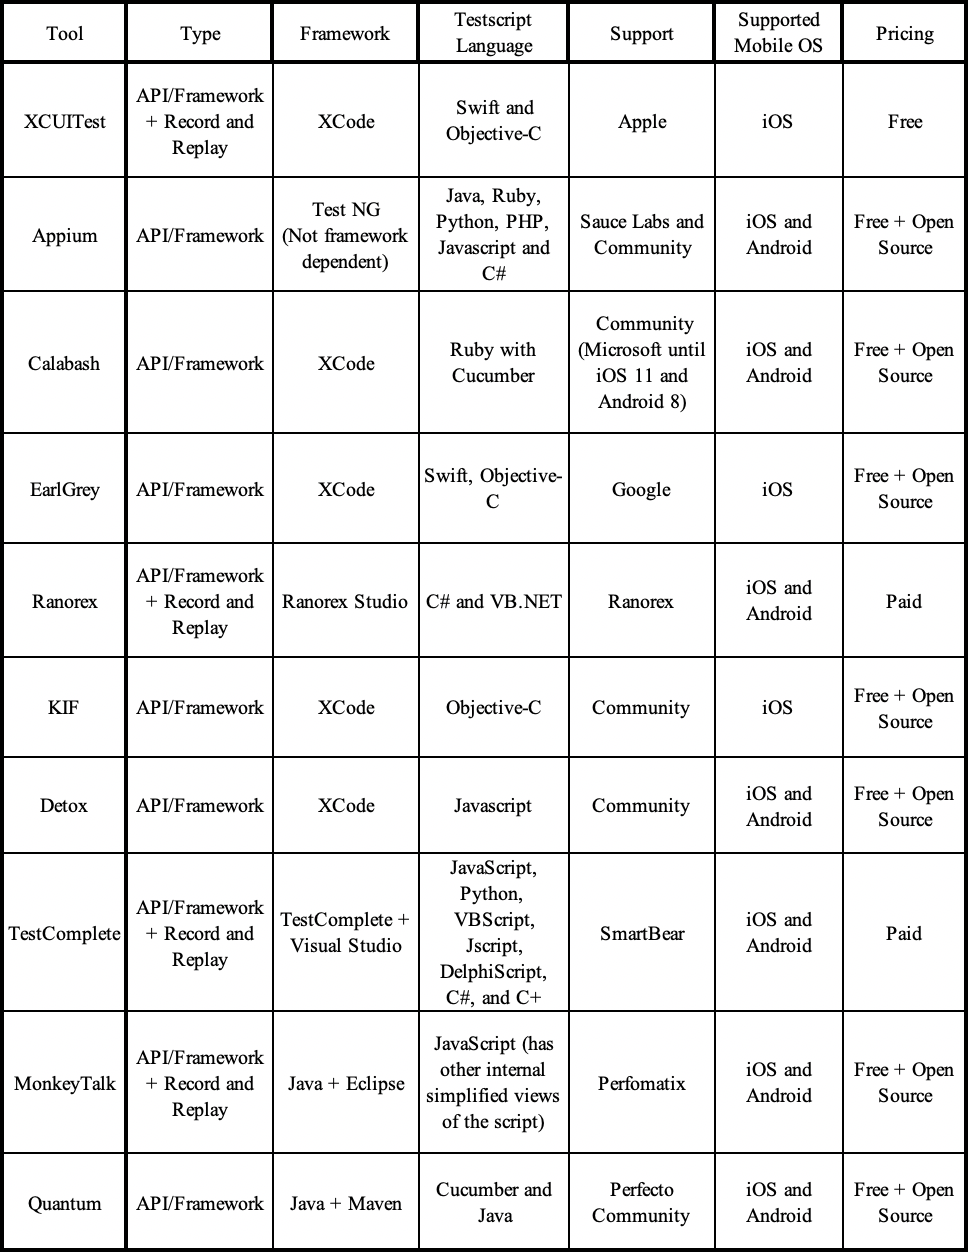
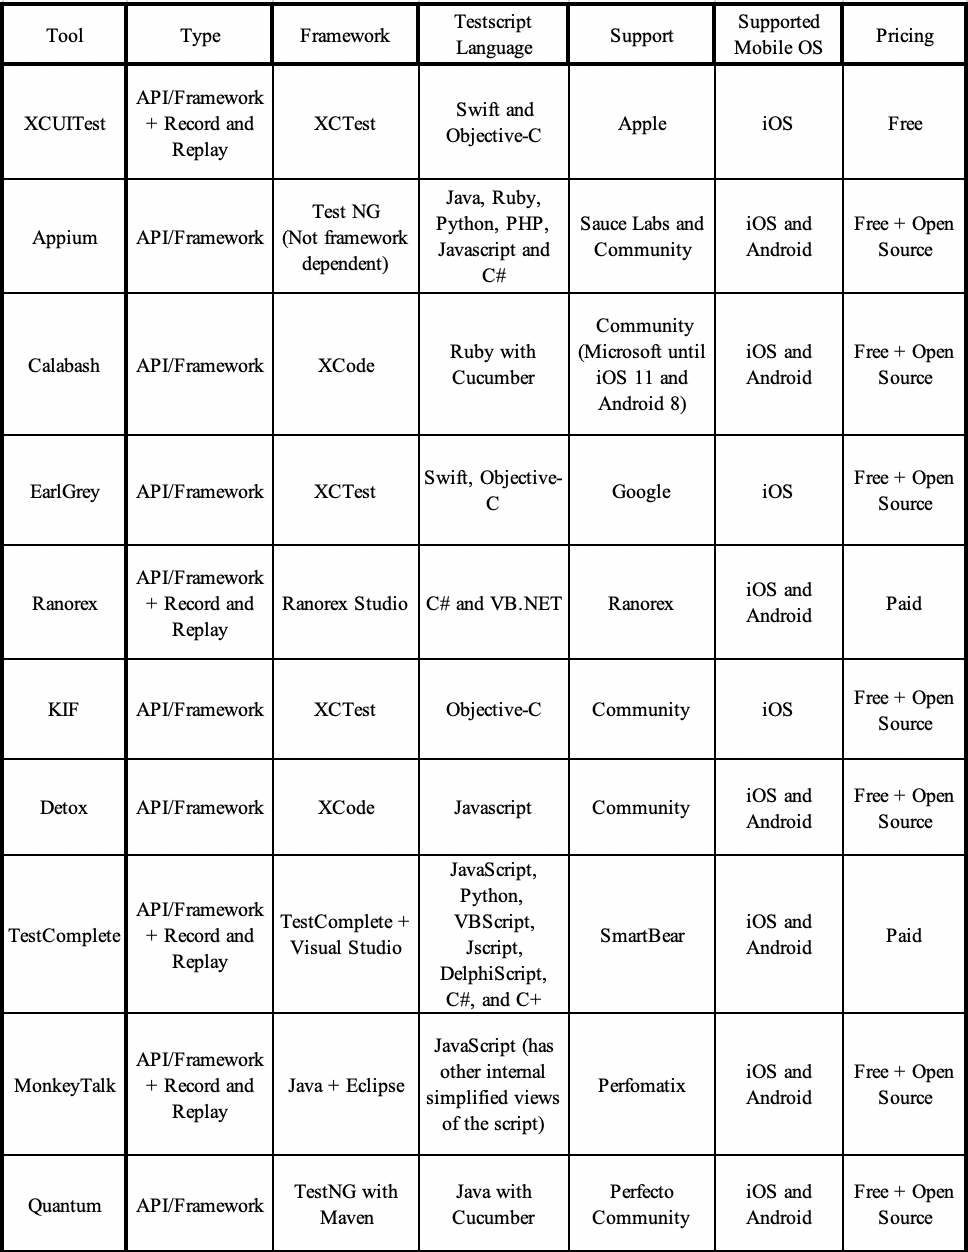
added references

diff --git a/content/chapter-related-work.tex b/content/chapter-related-work.tex
@@ -3,55 +3,53 @@
 
 \section{State of the Art}
 
-As for mobile systems, there are only two main platforms: Android and iOS. On the Android side, because of it being an open source project, a vast number of smartphone manufacturing companies provide this base operating system and some have even implemented their own wrapper around Android. As a result, the device suite for Android has surpassed 7000+ devices [4]. On the other hand, the iOS platform is much more restrictive and only Apple is allowed to manufacture devices with iOS, which results in the testing advantage of having a smaller device suite [3]. However, due to the secrecy and restrictions of the iOS system (as opposed to Android), there are fewer tools available that may perform automated tests, making test automation fairly more uncommon on this platform. Consequently, test assessment might be performed through manual testing instead of automated even if automating is the right approach.
+As for mobile systems, there are only two main platforms: Android and iOS. On the Android side, because of it being an open source project, a vast number of smartphone manufacturing companies provide this base operating system and some have even implemented their own wrapper around it. As a result, the device suite for Android has surpassed 7000+ devices \cite{Android Devices}. On the other hand, the iOS platform is much more restrictive and only Apple is allowed to manufacture devices with iOS, which results in the testing advantage of having a smaller device suite \cite{Apple Devices}. However, due to the secrecy and restrictions of the iOS system (as opposed to Android), there are fewer tools available that may perform automated tests, making test automation fairly more uncommon on this platform. Consequently, quality control might be performed through manual testing instead of automated testing, even if automating is the right approach.
 
-There are currently a few tools that allow the development of automated user interface tests for iOS. The feasibility of developing tests through one or the other varies depending on the compatibility of the tool with the characteristics of the project. This refers to features such as: the programming language with which the team to perform the automation is familiar with, which testing framework are you capable of using, if the application is developed hybrid or native, the testing load and speed requirements, among many others.
+There are currently a few tools that allow the development of automated user interface tests for iOS. The feasibility of developing tests through one or the other varies depending on the compatibility of the tool with the characteristics of the project. This refers to factors such as: project budget, programming languages with which the team to perform the automation is familiar with, whether the application is hybrid or native, testing load and speed requirements, among many others.
 
-The two types of tools used to create automated tests are: Automation APIs/frameworks and record and replay tools [9]. It is also worth noting that there are several test support tools like: bug and error reporting/monitoring tools, device streaming tools and automated test input generation tools. For the purpose of this project, a focus on both types of test automation tools will be made: APIs/frameworks and record and replay.
+The two types of tools used to create user interface automated tests are: automation APIs/frameworks and record and replay tools \cite{Linares-Vasquez2017ContinuousTesting}. Both types of tools are within the scope of this project. It is also worth noting that there are several other test support tools like: bug and error reporting/monitoring tools, device streaming tools and automated test input generation tools. It is important understand, at a high level, how these two tool types work and how they are used to create automated tests.
 
-First, it is important to provide an overview on how these two tool types work and how they are used to create automated tests. Under the hood, they work in a very similar manner and even, in some cases, test automation systems provide both tools. In order to create automated tests for mobile applications there is a crucial feature the tool must provide. The tool needs to be capable of interacting with the smartphones GUI elements as a real user would in order to replicate testing scenarios. This includes GUI interactions such as: swiping, typing, pinch and zoom, tapping among others and even combinations of these like swipe and hold or double tap. Even though both tool types must provide this interaction with the GUI, the way the actual automated tests are created is where they differ. Automation APIs/frameworks require a test script which contains all of the user interactions that should be performed when the test is to be executed. On the other hand, record and replay tools only require for the test to be manually executed and the tool itself will record all the interactions that where performed generating a test script.
+They both attempt attempt to provide an interface for the user to create an automated test. Which is why, in some cases, test automation frameworks provide both types. Even though the goal is the same, the way the actual automated test is created is where they differ. On the one hand, automation APIs/frameworks require a manually written test script which contains all of the code that makes up the automated test. On the other hand, record and replay tools only require for the test to be manually executed and the tool itself will record all the interactions that where performed, automatically generating the automated test.
 
+Once the automated test is executed, it must be capable of interacting with the smartphones GUI elements as a real user would, replicating the test case scenarios. This includes performing GUI interactions such as: swiping, tapping, dragging, pinching, among others.
 
 \section{Test Automation Tools}
 
-Regarding the available tools, there are several different tools that can be used to develop your automated tests, ranging from paid license all-in-one tools like Ranorex [7] to open source client server tools like Appium [8], which acts as a library that you can adapt to your test automation framework. 
+Regarding the available tools, there are several different tools that can be used to develop your automated tests, ranging from paid license all-in-one tools like Ranorex \cite{Ranorex} to open source client-server tools like Appium \cite{Appium}. 
 
 Getting to know all of the available tools, how they work and how they are used can become a very time-consuming task. Besides, while doing research about test automation tools for iOS, you might end up with a small list of the available tools and a brief understanding of them. The actual documentation you can find on automation tools for iOS is very limited and as a result you can easily have a hard time trying to choose the appropriate tool for your project. For this reason, this project pursues to reduce the conceptual gap present when trying to learn about the available user interface test automation tools for iOS.
 
 Here, a list and a brief description for most of the currently available tools that may perform test automation of UI over the iOS platform is shown. This will provide a high level view of what is available and may help you discard some options right away.
 
-\subsection {XCTest UI}
-Xcode comes with the testing framework XCTest. This testing framework will not only allow you to code your unit tests, but you may also record and write UI tests. This testing tool has seen a mayor upgrades since it was released a few years ago and has now become a really solid option.
+\subsection {XCUITest}
+Xcode comes with the testing framework XCTest. This testing framework will not only allow you to code your unit tests, but you may also record and write UI tests. This testing tool has seen a mayor upgrades since it was released a few years ago and has now become a really solid option. \cite{XCUITest}
 
 \subsection {Appium}
-Appium has now become one of the most popular mobile test automation tools out there. This open source project is characterized by its client server architecture which supports a wide range of programming languages and testing frameworks to work on.
+Appium has now become one of the most popular mobile test automation tools out there. This open source project is characterized by its client server architecture which supports a wide range of programming languages and testing frameworks to work on. \cite{Appium}
 
 \subsection {Calabash}
-Although Xamarin (Microsoft) discontinued their development for this test automation framework up until iOS 11 and Android 8, it has still been maintained by its community. It works with Cucumber in order to follow the BDD practices plus it is a free and open source project. This means it can become fairly simple to write automated tests without much coding experience.
+Although Xamarin (Microsoft) discontinued their development for this test automation framework up until iOS 11 and Android 8, it has still been maintained by its community. It works with Cucumber in order to follow the BDD practices plus it is a free and open source project. This means it can become fairly simple to write automated tests without much coding experience. \cite{Calabash}
 
-\subsection {Earl Grey (2.0)}
-This open source project by Google provides a testing framework over the existing XCUITest in order to provide certain advantages such as synchronization and white box testing.
+\subsection {EarlGrey (2.0)}
+This open source project by Google provides a testing framework works along with the existing XCUITest in order to provide certain advantages such as synchronization and white box testing. \cite{EarlGrey}
 	
 \subsection {Ranorex}
-This paid “all in one” solution seems to be one of the most popular of its kind. It allows the recording and writing of automated tests for many platforms and it is simple to use, for which its users do not need to be skilled with programming to use it.
+This paid “all in one” solution seems to be one of the most popular of its kind. It allows the recording and writing of automated tests for many platforms and it is simple to use, for which its users do not need to be skilled with programming to use it. \cite{Ranorex}
 
 \subsection {KIF}
-KIF, standing for “Keep It Functional” is a test automation framework that works at the XCTest level and runs with your unit tests. Tests are written in Objective-C and it is characterized for being simple and easy to use.
+KIF, standing for “Keep It Functional” is a test automation framework that works at the XCTest level and runs with your unit tests. Tests are written in Objective-C and rely on the accessibility attributes. \cite{KIF}
 
 \subsection {Detox}
-Detox is a grey-box end to end testing framework for mobile devices (iOS and Android) which provides fast tests with improved reliability regarding flakiness. It is designed to support both React Native and pure native ones and it may perform testing over a real device or a simulator.
-
-\subsection {Frank}
-This BDD automated acceptance testing framework works with cucumber and provides features such as recording your tests and running on both simulator and real devices.
+Detox is a grey-box end to end testing framework for mobile devices (iOS and Android) which provides fast tests with improved reliability regarding flakiness. It is designed to support both React Native and pure native ones and it may perform testing over a real device or a simulator. \cite{Detox}
 
 \subsection {TestComplete}
-This paid all in one solution provides everything you may need in order to build and run your tests ranging from the testing framework to the physical/virtual devices. You can either write your own tests on any of the 7 available languages or use the built-in record and replay tool.
+This paid all in one solution provides everything you may need in order to build and run your tests ranging from the testing framework to the physical/virtual devices. You can either write your own tests on any of the 7 available languages or use the built-in record and replay tool. \cite{TestComplete}
 
 \subsection {MonkeyTalk}
-MonkeyTalk is a record and replay open source mobile app automation tool. It is very simple to setup and use, plus it supports both android and iOS.
+MonkeyTalk is a record and replay open source mobile app automation tool. It designed to be simple to setup and use plus it supports both android and iOS. \cite{MonkeyTalk}
 
 \subsection {Quantum}
-The Quantum framework allows you to build BDD automated tests using cucumber. It supports both iOS and Android. Tests are written in Java.
+The Quantum framework allows you to build BDD automated tests using cucumber. It supports both iOS and Android. Tests are written in Java. \cite{Quantum}
 
 \section{Classification}
 After all this research, it is possible to classify these tools in groups from a high level standpoint.
@@ -79,7 +77,7 @@ In the following table [Fig 2.1] you will be able to visualize a comparison betw
 \section{Categories}
 In order to compare test automation tools, it is important to understand the different elements, interactions and functionality an iOS mobile app utilizes. These will be broken down in three categories: GUI components, Gestures and Testing Capabilities. The first makes reference to the all the elements that make up the graphical user interface, these are also divided into three categories: Bars, Views and Controls. Gestures are the way users interact with the touchscreen, this is the main way users provide input to their mobile devices. Finally, testing capabilities make reference to the various APIs the test automation tool could provide in order to manipulate the application OS and hardware configurations.
 
-The following is a list of GUI components and gestures Apple has publicly defined [To-Link], as well as some of the testing capabilities that one may need while automating tests. 
+The following is a list of GUI components and gestures Apple has publicly defined \cite{AppleHumanInterface}, as well as some of the testing capabilities that one may need while automating tests. 
 
 \subsection {GUI Components}
 	

diff --git a/content/chapter-introduction.tex b/content/chapter-introduction.tex
@@ -7,16 +7,16 @@
 
 During the development of a system, performing tests is needed in order to validate that it behaves as intended. Therefore, through testing, it is possible to validate many of the functional and nonfunctional characteristics of your system. However, hundreds of testing types and testing techniques exist for this purpose.
 
-Regression testing is a common type of testing that often faces problems. This kind of testing involves performing a series of previously executed tests in order to validate that a change in the system has not affected any of its dependencies. In situations where the system is relatively large or it experiences frequent changes, performing regression testing can become a complication. This is due to the fact that the bigger the project or the higher the frequency of changes in it, more testing will be required, and more testing means increasing costs and delays in adapting the desired changes [5]. Here is where the concept of test automation becomes quite beneficial, especially in continuous integration projects [1].
+Regression testing is a common type of testing that often faces problems. This kind of testing involves performing a series of previously executed tests in order to validate that a change in the system has not affected any of its dependencies. In situations where the system is relatively large or it experiences frequent changes, performing regression testing can become a complication. This is due to the fact that the bigger the project or the higher the frequency of changes in it, more testing will be required, and more testing means increasing costs and delays in adapting the desired changes \cite{Google Automate UI tests}. Here is where the concept of test automation becomes quite beneficial, especially in continuous integration projects \cite{ISTQB}.
 
-It is very common to see the previously mentioned situation during mobile application development. This is due to the fast-moving pace and the increasing size and complexity of projects in the current mobile application market. Not only do users expect frequent improvements, but they expect high quality apps. These can considerably influence the number of installs, user rating, as well as user retention. Therefore, it is crucial to assess the quality of your app with an efficient testing process [6].
+It is very common to see the previously mentioned situation during mobile application development. This is due to the fast-moving pace and the increasing size and complexity of projects in the current mobile application market. Not only do users expect frequent improvements, but they expect high quality apps. This can considerably influence the number of installs, user rating and as user retention. Therefore, it is crucial to assess the quality of your app with an efficient testing process \cite{Google App Quality}.
 
-A proper and efficient testing process on a mobile application development project will most likely require the automation of several tests [2]. But, before commencing with the test scripting, a series of important decisions regarding the design of the test automation architecture must be made. These may involve choosing the testing framework and test automation tools to be used. The common issue here is that this decision might not be as straight forward as one would desire since it actually depends on a series of factors related to the project and the tools characteristics. Taking the wrong decision at this level may result extremely expensive and time consuming since it could unnecessarily increase the difficulty level or time needed at the test automation implementation or even worse, it could require an architectural change mid-project, putting a lot of work in vain. 
+A proper and efficient testing process on a mobile application development project will most likely require the automation of several tests \cite{Gaurav Why Test Automation}. But, before commencing with the test scripting, a series of important decisions regarding the design of the test automation architecture must be made. These commonly involve choosing a testing framework and any other tools to be used. A common issue here is that this decision might not be as straight forward as one would desire, since it actually depends on a series of factors related to the project and the tool characteristics. Taking the wrong decision at this level may result extremely expensive and time consuming since it could unnecessarily increase the difficulty level, the time needed at the test automation implementation or even worse, it could require an architectural change mid-project, putting a lot of work in vain. 
 
-For the purposes of this project, an approach will be made into the user interface test automation tools available for the iOS platform. It specially attractive to do research on this area due to the fact that this platform is way more limited compared to the Android platform in terms of available tools and operating system’s restrictions.
+For the purposes of this project, an approach will be made into the user interface test automation tools available for the iOS platform. It is specially attractive to conduct a research on this area due to the fact that this platform is way more limited compared to the Android platform in terms of available tools and operating system restrictions.
 
 \section{Objectives}
-To perform a study and analysis of a series of existing tools for the development of automated interface tests in mobile applications that run over the iOS operating system. This would allow identifying weaknesses, strengths, characteristics and limitations of existing tools in order to make the most convenient choice when designing the architecture of a test automation project.
+Studying and analyzing a series of existing tools for the development of automated interface tests in mobile applications that run over the iOS operating system. This would allow identifying weaknesses, strengths, characteristics and limitations of existing tools in order to take the most convenient choice when designing the architecture of a test automation project.
 
 \subsection{Specific Objective: Tool Research}
 \begin{itemize}

diff --git a/content/chapter-system.tex b/content/chapter-system.tex
@@ -4,19 +4,17 @@ For this project, a case study focused on taking a closer look into the popular 
 
 
 \section{Firefox iOS App}
-After exploring several open source applications, the Firefox project for iOS seemed to be the best fit, since it provides a big enough and stable application as well as hundreds of working automated UI tests. These automated tests make use of the XCUITest framework for black box testing along with KIF and EarlGrey for grey box testing. On the other hand, the project is currently up to date regarding the software versions used and it is constantly been worked on, which greatly reduces compatibility issues.
-
-https://github.com/mozilla-mobile/firefox-ios --- Cambiar
+After exploring several open source applications, the Firefox project for iOS seemed to be the best fit, since it provides a big enough and stable application as well as hundreds of working automated UI tests. These automated tests make use of the XCUITest framework for black box testing along with KIF and EarlGrey for grey box testing. On the other hand, the project is currently up to date regarding the software versions used and it is constantly been worked on, which greatly reduces compatibility issues. \cite{FirefoxAppiOS}
 
 \section{Test Cases}
 Considering the objective of this case study is to compare the different test automation tools, the following set of test cases aims to cover as many different situations one could encounter while testing, and not providing a coverage for the application itself. This means, they will try to cover as many of the GUI components, gestures and testing capabilities as possible within the existing automated tests in the Firefox App.
 
 \subsection{XCTestUI Test Cases}
-\includegraphics[width=12cm]{img/tc1.png} \\[2mm]
-\includegraphics[width=12cm]{img/tc2.png} \\[2mm]
-\includegraphics[width=12cm]{img/tc3.png} \\[2mm]
-\includegraphics[width=12cm]{img/tc4.png} \\[2mm]
-\includegraphics[width=12cm]{img/tc5.png} \\[2mm]
+\includegraphics[width=10cm]{img/tc1.png} \\[2mm]
+\includegraphics[width=10cm]{img/tc2.png} \\[2mm]
+\includegraphics[width=10cm]{img/tc3.png} \\[2mm]
+\includegraphics[width=10cm]{img/tc4.png} \\[2mm]
+\includegraphics[width=10cm]{img/tc5.png} \\[2mm]
 \includegraphics[width=12cm]{img/tc6.png} \\[2mm]
 \includegraphics[width=12cm]{img/tc7.png} \\[2mm]
 \includegraphics[width=12cm]{img/tc8.png} \\[2mm]
